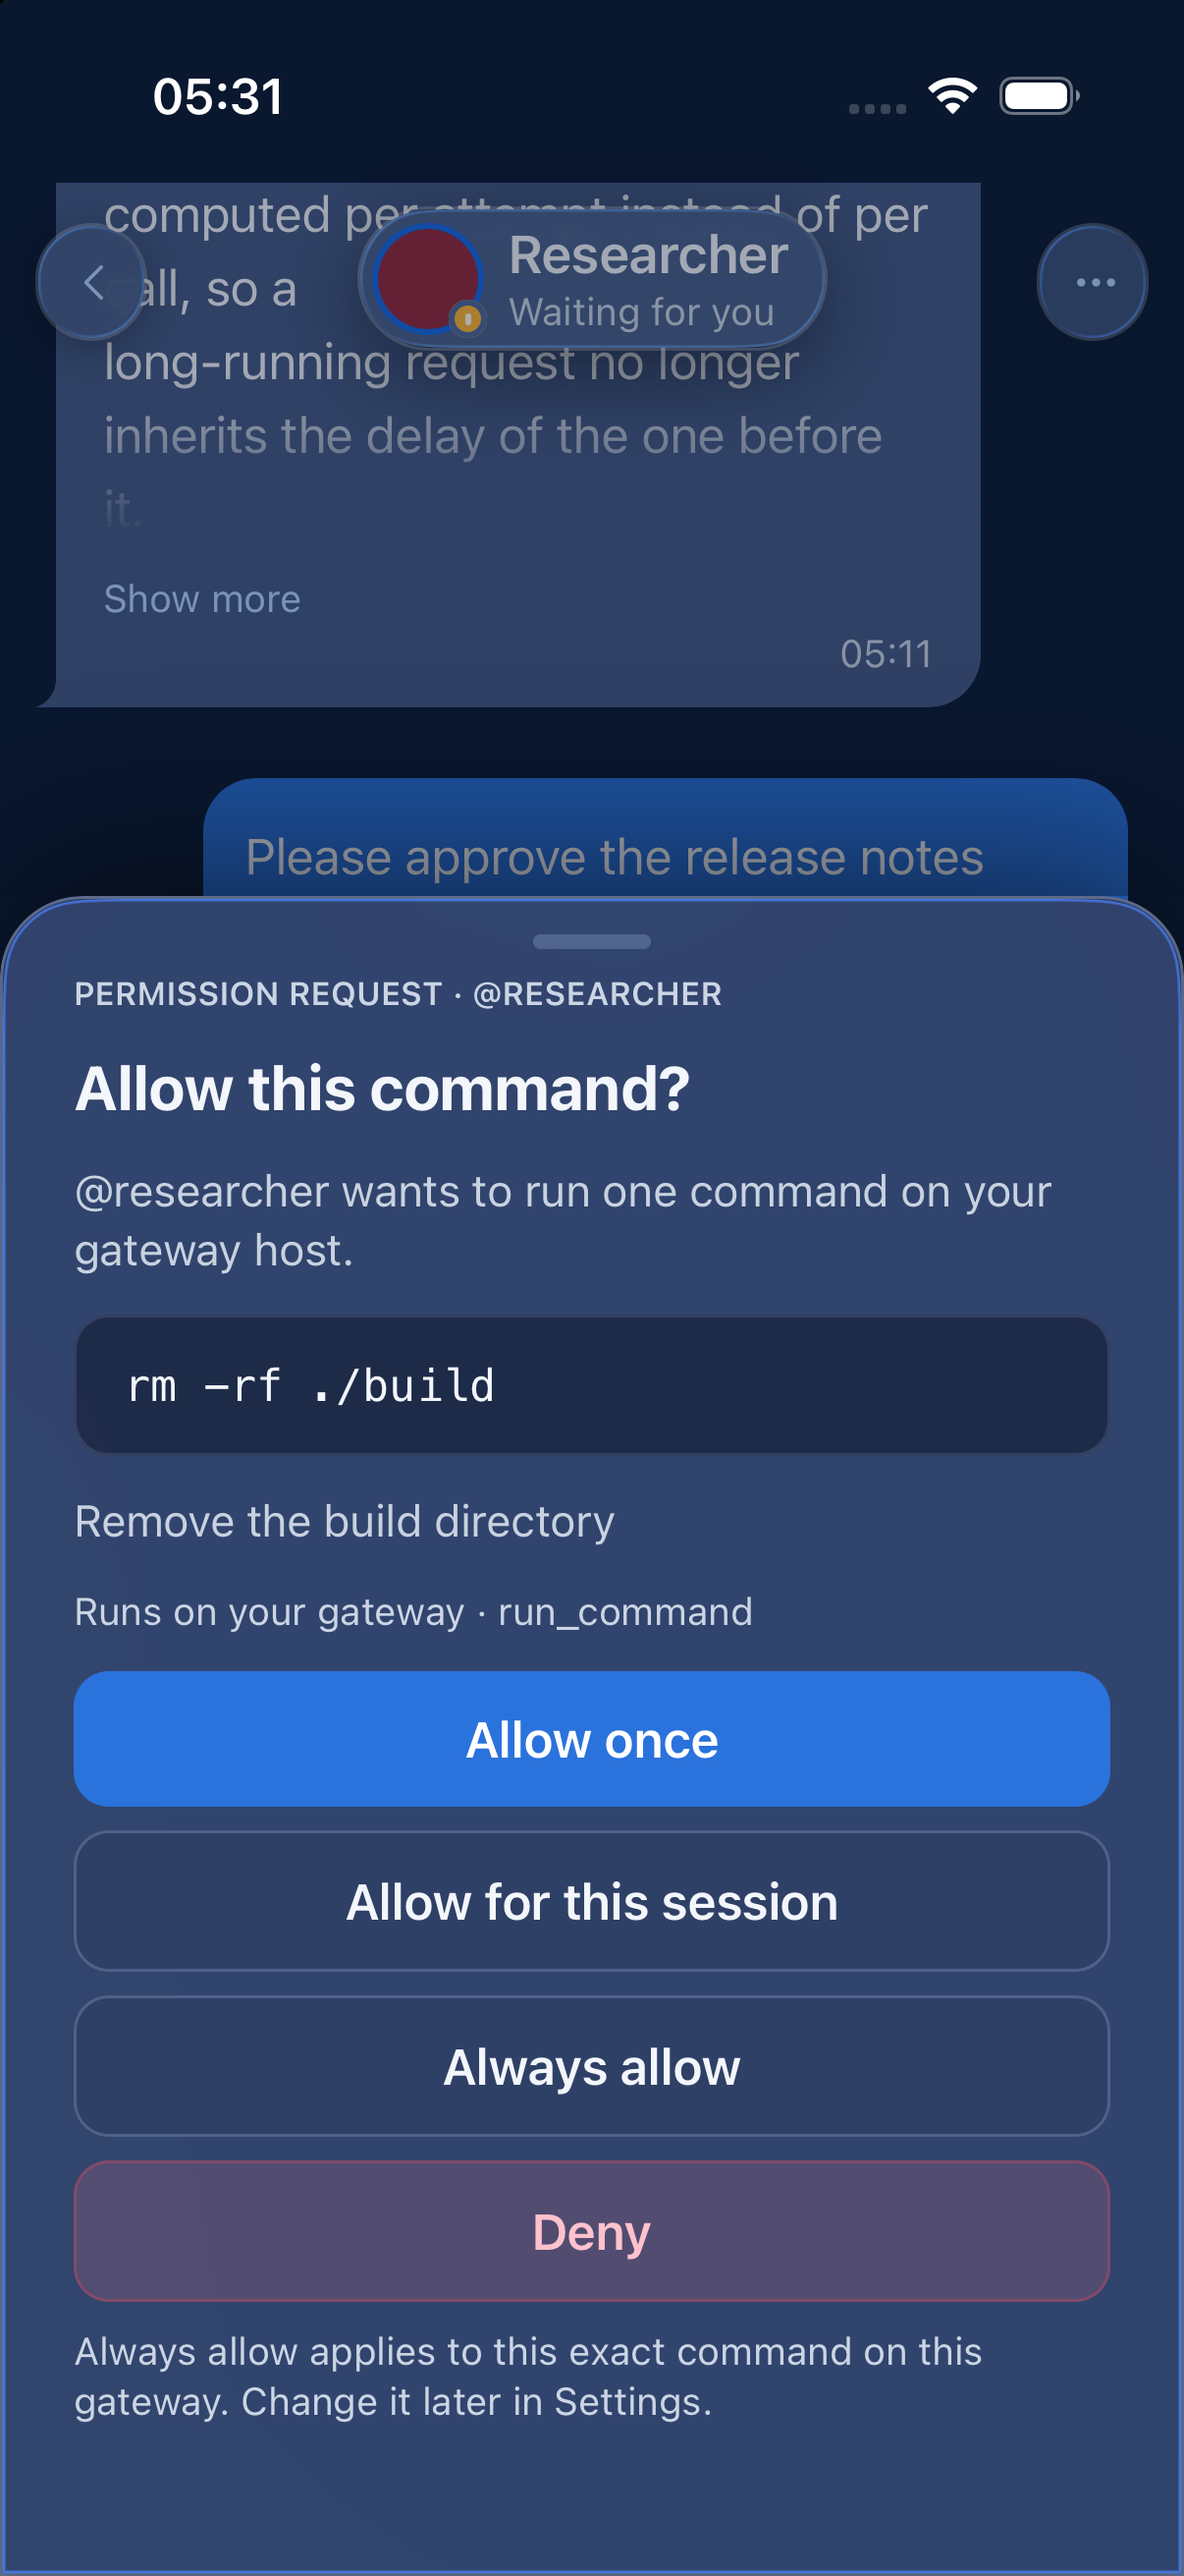
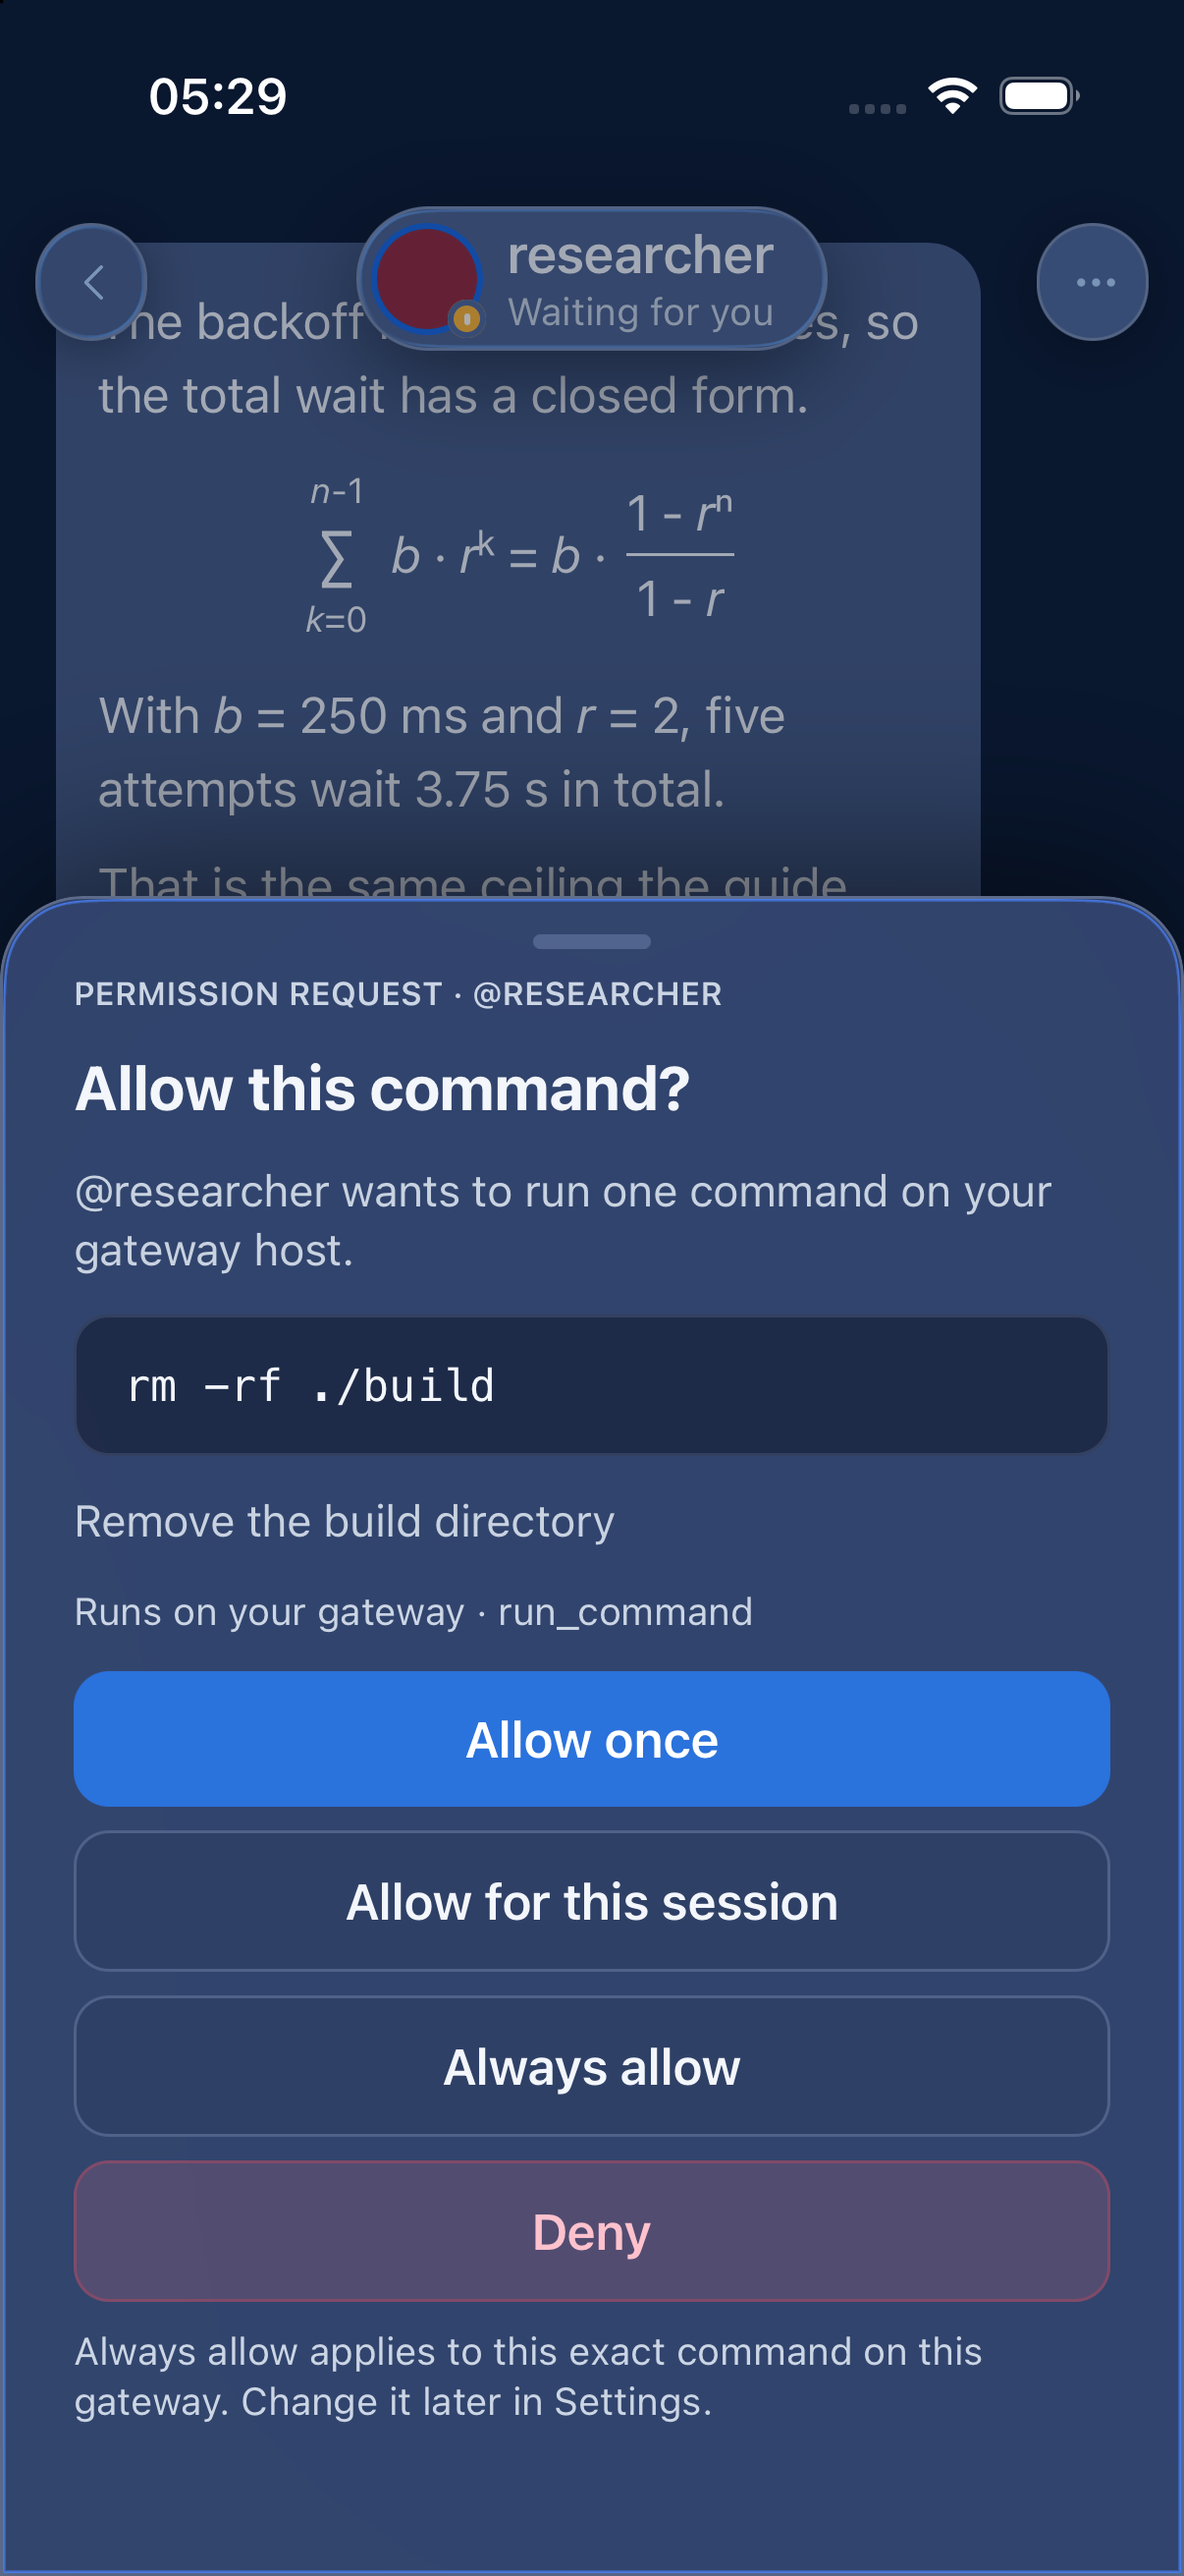
docs(readme): refresh the screenshots, and say what they now show
All four images retaken from the same fixtures and at the sizes the page
already used: the three phone images at 1206x2622 from an iPhone 17 Pro,
and the wide one at 1200x1600, resampled from the iPad Pro 13-inch
capture that heads the store set. Dark throughout, which is what the page
showed before.

The alt text and one caption are rewritten rather than carried over,
because two of the scenes have moved on. The conversation is now the
Mermaid flowchart and the typeset geometric series rather than the cron
card and the bot-to-bot roll-up, so the caption says "a diagram and a
formula" and the bot-to-bot line is described where it actually appears,
in the iPad image. The chat list has gained Boards in its header and the
iPad sidebar a pinned chat above a folder. The approval sheet is
unchanged except for naming the summary and the tool it quotes.

Every file is re-encoded from its pixels, so a README image carries no
more chunks than a store one.

diff --git a/README.md b/README.md
@@ -40,13 +40,13 @@ no third-party network call. The only address Hermie knows is the one you typed.
 
 <table>
   <tr>
-    <td width="33%"><img src="docs/screenshots/chats.png" alt="The chat list on an iPhone: a search field above two rows — Researcher with a photo avatar and Writer with a generated W on a tinted disc, each carrying a green online bead, and a blue unread dot beside Writer"></td>
-    <td width="33%"><img src="docs/screenshots/conversation.png" alt="A conversation with the Researcher bot: a card for the cron job Source scan that was delivered to this chat, an outgoing bot-to-bot line reading Message to @writer, and a long report folded after a few lines behind a Show more link"></td>
-    <td width="33%"><img src="docs/screenshots/approval.png" alt="The approval sheet over a dimmed conversation, headed Permission request for @researcher and asking whether to allow the command rm -rf ./build, with the choices Allow once, Allow for this session, Always allow and Deny"></td>
+    <td width="33%"><img src="docs/screenshots/chats.png" alt="The chat list on an iPhone: Boards, New bot and Edit across the header, a search field, and two rows — researcher with a photo avatar and writer with a generated W on a tinted disc, each carrying a green online bead and a blue unread dot"></td>
+    <td width="33%"><img src="docs/screenshots/conversation.png" alt="A conversation with the researcher bot: a Mermaid flowchart of a token-refresh path folded behind a Show more link, then a question about the backoff answered with a typeset geometric series and the figures that follow from it"></td>
+    <td width="33%"><img src="docs/screenshots/approval.png" alt="The approval sheet over a dimmed conversation, headed Permission request for @researcher and asking Allow this command? over the quoted command rm -rf ./build, its summary and the tool that wants to run it, with the choices Allow once, Allow for this session, Always allow and Deny"></td>
   </tr>
   <tr>
     <td>The chat list</td>
-    <td>A conversation, with bot-to-bot traffic in it</td>
+    <td>A conversation, with a diagram and a formula in it</td>
     <td>An approval, asked and answered</td>
   </tr>
 </table>
@@ -461,7 +461,7 @@ conversation instead of squeezing it again, and it closes as soon as you pick a
 chat. Whether it starts open follows the window's width until you say otherwise;
 after that it is remembered, per gateway, like the rest of your arrangement.
 
-<img src="docs/screenshots/wide.png" alt="Hermie on an iPad: the chat list as a sidebar on the left with Researcher selected, and the conversation filling the panel beside it — incoming replies against the left edge of that panel, the owner's own messages against its right edge, and a tool card and a cron result between them" width="760">
+<img src="docs/screenshots/wide.png" alt="Hermie on an iPad: the chat list as a sidebar on the left with researcher pinned above a Writing folder and selected, and the conversation filling the column beside it — incoming replies against the left edge of that column, the owner's own messages against its right edge, and an outgoing bot-to-bot line, a cron result and a folded report between them" width="760">
 
 The Mac is not a separate port. It is the iOS app, which Apple runs on Apple
 Silicon Macs unmodified, so it has the same keychain, the same modules and the
